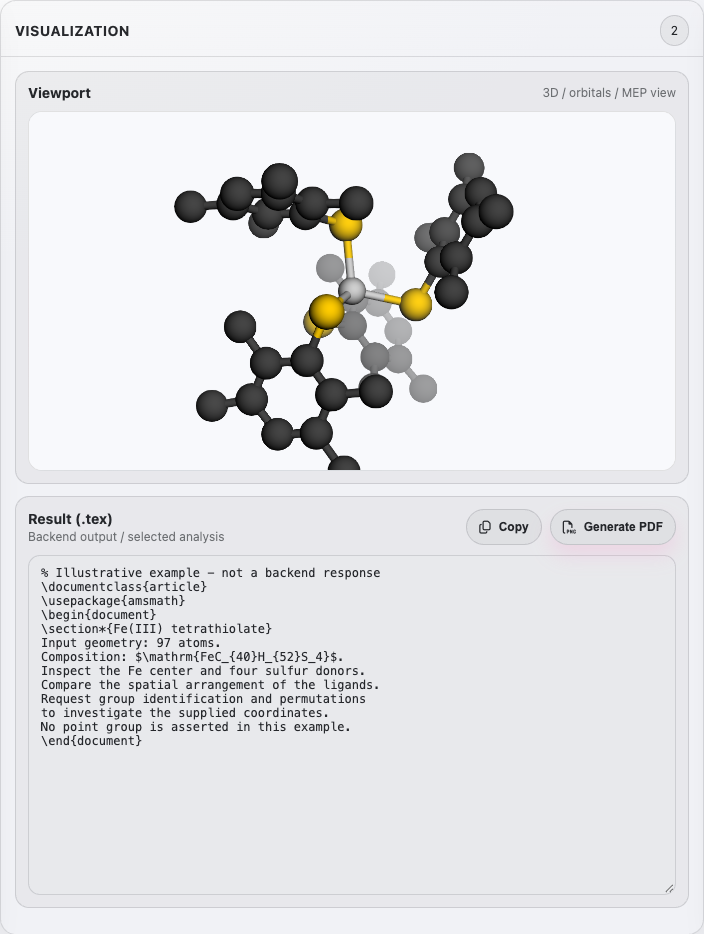
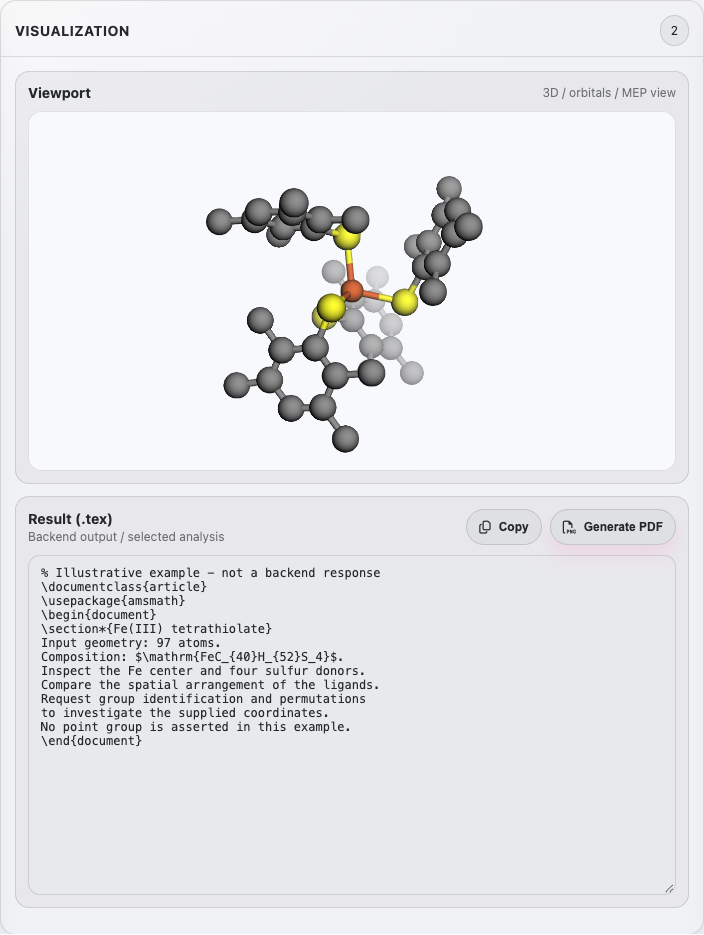
Update files

Changed region(s): [[0.25, 0.1551, 0.75, 0.5273]]

diff --git a/_posts/2025-06-16-Molecular-Symmetry.md b/_posts/2025-06-16-Molecular-Symmetry.md
@@ -64,7 +64,7 @@ categories: [software]
 		<li><strong>Display:</strong> show or hide hydrogens, enable atom labels, toggle automatic rotation and change the viewer background.</li>
 	</ul>
 	<p>The header's theme button changes the application theme. <strong>Dark background</strong> is a separate control for the molecular viewport. Hiding hydrogen atoms changes only what is displayed; it does not remove them from the input used by the backend.</p>
-	{% include software-figure.html folder="molecular-symmetry" file="molsym03.png" alt="English display controls and Fe III tetrathiolate in vibrant element colors with hydrogens hidden" caption="Hide hydrogens and use element colors to make the iron, sulfur donors and ligand framework easier to inspect." %}
+	{% include software-figure.html folder="molecular-symmetry" file="molsym03.png" alt="English display controls and Fe III tetrathiolate in default element colors with hydrogens hidden" caption="Hide hydrogens and use element colors to make the iron, sulfur donors and ligand framework easier to inspect." %}
 </section>
 
 <section id="analysis">
